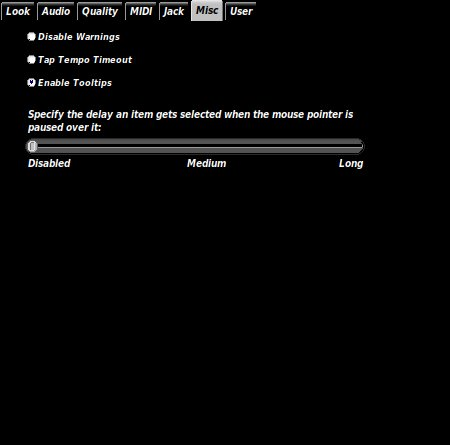
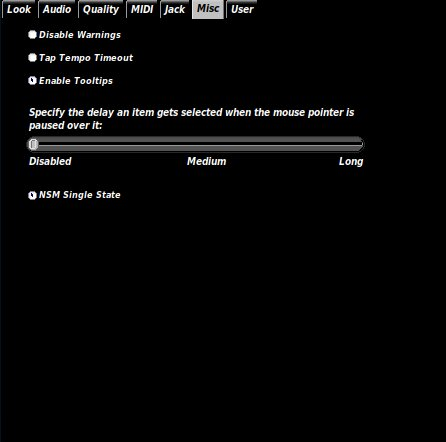
Update help for NSM single state. Fix typo.

diff --git a/doc/help/general.html b/doc/help/general.html
@@ -831,6 +831,12 @@ will shut off if no (tap) input is received for 8 seconds after the last signal.
 <p>Set the delay time to automatically focus of the widget under the mouse pointer.
 The mouse focus setting is disabled by default.</p>
 
+<p><b>NSM Single State</b></p>
+<p>Check this box if you want NSM session to always save the last state of the active preset.
+This will save all changes to effects including MIDI control changes. The default behaver
+will not save changes to the active preset as the changes are assumed to be for live 
+performance reasons. This check box is de-activated when not in NSM mode.</p>
+
 <p><a href="general.html">General</a></p>
 <p><a href="help.html">Table of Contents</a></p>
 
